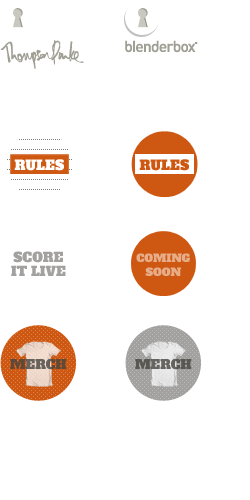
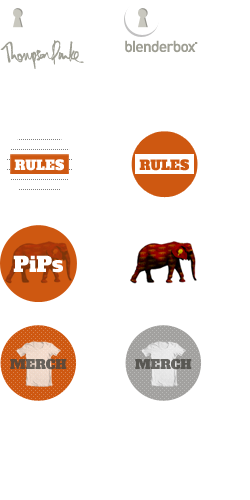
Removed the score dot, and replaced it with the pips link

Changed region(s): [[0.0, 0.45, 0.308, 0.63], [0.504, 0.45, 0.784, 0.6]]

diff --git a/source/templates/widgets/dots.html b/source/templates/widgets/dots.html
@@ -3,9 +3,9 @@
     <span class="front ir">Rules</span>
     <span class="back ir">Rules</span>
   </a>
-  <a href="#" class="score-dot" title="Score it live">
-    <span class="front ir">Score it live</span>
-    <span class="back ir">Score it live</span>
+  <a href="http://www.pipsout.com/" class="pips-dot" title="PiPs">
+    <span class="front ir">PiPs</span>
+    <span class="back ir">PiPs</span>
   </a>
   <a href="http://thompsonpunke.com/shop.html" class="merch-dot" title="Merch">
     <span class="front ir">Merch</span>

diff --git a/public/stylesheets/all.css.scss b/public/stylesheets/all.css.scss
@@ -568,8 +568,8 @@ footer {
 .dots {
   a, .ir { background-position:0 -125px; height:79px; width:79px; }
   .ir.back { background-position:-125px -125px; }
-  .score-dot .ir { background-position:0 -225px; }
-  .score-dot .ir.back { background-position:-125px -225px; }
+  .pips-dot .ir { background-position:0 -225px; }
+  .pips-dot .ir.back { background-position:-125px -225px; }
   .merch-dot .ir { background-position:0 -325px; }
   .merch-dot .ir.back { background-position:-125px -325px; }
   a {
